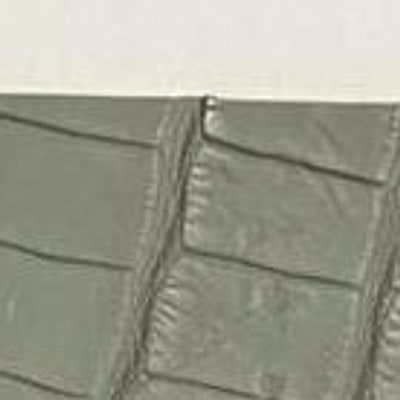
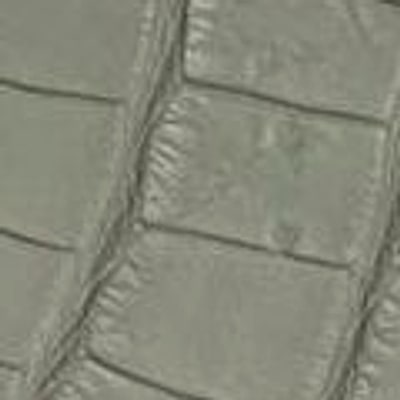
fix: re-crop 10 problem swatches — remove text labels and title artifacts
Root causes identified via pixel brightness probing:
- IMG_0908.PNG startY=700 lands in the OPACO title band → viola, prugna, notte
  Fixed: corrected startY=860, row-0 top=887
- 48d3777b.JPG startY=285 lands in sheet header area → nero, antra, grigio, moro
  Fixed: probed leather zone y=350-495, centered 120px crop within each column
- IMG_0906.PNG row-2 label starts at y=2165 → smeraldo, verdone, petrolio
  Fixed: crop height=155 stops at y=2155, safely below the paper boundary

diff --git a/scripts/fix-swatches.js b/scripts/fix-swatches.js
@@ -1,0 +1,145 @@
+/**
+ * fix-swatches.js
+ * Targeted re-crop for specific problem swatches ONLY.
+ * Does NOT touch any other images.
+ *
+ * Root causes fixed:
+ *   IMG_0908.PNG — startY=700 lands in the "OPACO" title band
+ *     → opaco-viola, opaco-prugna, opaco-notte
+ *   48d3777b.JPG — startY=285 lands in the sheet header / title area
+ *     → opaco-nero, opaco-antra, opaco-grigio, opaco-moro (white corner)
+ *   IMG_0906.PNG — row-2 labelPct insufficient; trim can't skip label text row
+ *     → lucido-smeraldo, lucido-verdone, lucido-petrolio
+ *
+ * Run: node scripts/fix-swatches.js
+ */
+
+const sharp = require('sharp');
+const path  = require('path');
+const fs    = require('fs');
+
+const SRC = path.join(__dirname, '../public/images/Amal_Leathers');
+const OUT = path.join(__dirname, '../public/images/leathers');
+
+// ---------------------------------------------------------------------------
+// Each entry: source file, output name, exact pixel region, trim threshold.
+// Regions are chosen to land squarely on leather texture, well clear of
+// title banners and label text.
+// ---------------------------------------------------------------------------
+
+// ── IMG_0908.PNG geometry ─────────────────────────────────────────────────
+// 1320×2868, cols=3 → colW=440, insetX=66, cellW=308
+// Real swatches start ~y=860 (title band occupies y≈700-840)
+// rowH_new = (2480-860)/3 ≈ 540, insetTop=27 → row0 top≈887
+const IMG0908 = 'IMG_0908.PNG';
+const W0908   = 308;  // colW - 2*insetX
+const TOP0908 = 887;  // row 0 top with corrected startY=860
+const H0908   = 210;  // stays well above label area
+
+// ── 48d3777b.JPG geometry ────────────────────────────────────────────────
+// 739×1600, cols=3 → colW≈246, insetX≈44, cellW≈158
+// Real swatches start ~y=440 (header occupies y≈0-420)
+// rowH_new = (1460-440)/4 = 255, insetTop=13 → row0 top≈453
+const JPG48  = '48d3777b-4db9-4383-b736-88a439a42ef5.JPG';
+// 48d3777b: colW=246.3, leather centers at x≈123, 369, 615
+// Use width=120 centered in leather patch to avoid inter-swatch gutter
+const W48     = 120;
+// Probe confirmed: leather at y≈340-510, paper/label starts y≈520
+const TOP48R0 = 350;  // row 0: safely in leather zone
+const H48R0   = 145;  // ends at y≈495, well before paper boundary at y≈520
+// Row 1: main script used top=594,h=138; moro just needs threshold bump
+const TOP48R1 = 600;
+const H48R1   = 130;
+
+// ── IMG_0906.PNG geometry ─────────────────────────────────────────────────
+// 1320×2868, cols=3 → colW=440, insetX=66, cellW=308
+// Row 2 base = 760 + 2×607 = 1974; label text appears at ~y=2290+
+// Crop strictly the upper leather zone of that row
+const IMG0906 = 'IMG_0906.PNG';
+const W0906   = 308;
+const TOP0906 = 2000;  // safely in leather zone for row 2
+const H0906   = 155;   // ends at y=2155 — probe confirmed paper starts at y=2165
+
+const FIXES = [
+  // ── IMG_0908.PNG row 0: "OPACO" title band in old crop ──────────────
+  { file: IMG0908, name: 'opaco-viola',  region: { left: 66,  top: TOP0908, width: W0908, height: H0908 }, threshold: 40 },
+  { file: IMG0908, name: 'opaco-prugna', region: { left: 506, top: TOP0908, width: W0908, height: H0908 }, threshold: 40 },
+  { file: IMG0908, name: 'opaco-notte',  region: { left: 946, top: TOP0908, width: W0908, height: H0908 }, threshold: 40 },
+
+  // ── 48d3777b.JPG row 0: probe confirmed leather at y=350-495 ─────────
+  // left = col_center - W48/2: 63, 309, 555
+  { file: JPG48, name: 'opaco-nero',   region: { left: 63,  top: TOP48R0, width: W48, height: H48R0 }, threshold: 40 },
+  { file: JPG48, name: 'opaco-antra',  region: { left: 309, top: TOP48R0, width: W48, height: H48R0 }, threshold: 40 },
+  { file: JPG48, name: 'opaco-grigio', region: { left: 555, top: TOP48R0, width: W48, height: H48R0 }, threshold: 40 },
+
+  // ── 48d3777b.JPG row 1 col 1: white corner, re-trim with threshold 40 ─
+  { file: JPG48, name: 'opaco-moro',   region: { left: 309, top: TOP48R1, width: W48, height: H48R1 }, threshold: 40 },
+
+  // ── IMG_0906.PNG row 2: label text at bottom, crop upper leather zone ─
+  { file: IMG0906, name: 'lucido-smeraldo', region: { left: 66,  top: TOP0906, width: W0906, height: H0906 }, threshold: 40 },
+  { file: IMG0906, name: 'lucido-verdone',  region: { left: 506, top: TOP0906, width: W0906, height: H0906 }, threshold: 40 },
+  { file: IMG0906, name: 'lucido-petrolio', region: { left: 946, top: TOP0906, width: W0906, height: H0906 }, threshold: 40 },
+];
+
+// ---------------------------------------------------------------------------
+
+async function fixSwatch({ file, name, region, threshold }) {
+  const inputPath = path.join(SRC, file);
+  const outputPath = path.join(OUT, `${name}.jpg`);
+
+  // Validate bounds
+  const meta = await sharp(inputPath).metadata();
+  const r = region;
+  if (r.left + r.width > meta.width || r.top + r.height > meta.height) {
+    console.error(`  ✗  ${name} — region out of bounds (${meta.width}×${meta.height}), skipping`);
+    return;
+  }
+
+  // Step 1: Extract
+  const extracted = await sharp(inputPath)
+    .extract({ left: Math.round(r.left), top: Math.round(r.top), width: Math.round(r.width), height: Math.round(r.height) })
+    .toBuffer();
+
+  // Step 2: Trim white paper
+  let trimmed, trimInfo;
+  try {
+    const result = await sharp(extracted)
+      .trim({ background: { r: 255, g: 255, b: 255, alpha: 1 }, threshold })
+      .toBuffer({ resolveWithObject: true });
+    trimmed  = result.data;
+    trimInfo = result.info;
+  } catch {
+    const result = await sharp(extracted).toBuffer({ resolveWithObject: true });
+    trimmed  = result.data;
+    trimInfo = result.info;
+  }
+
+  // Step 3: Centred square
+  const { width: tw, height: th } = trimInfo;
+  const size = Math.min(tw, th);
+  const squareLeft = Math.floor((tw - size) / 2);
+  const squareTop  = Math.floor((th - size) / 2);
+
+  // Step 4: Resize, enhance, save
+  await sharp(trimmed)
+    .extract({ left: squareLeft, top: squareTop, width: size, height: size })
+    .resize(400, 400)
+    .modulate({ brightness: 1.03, saturation: 1.08 })
+    .sharpen({ sigma: 0.8 })
+    .jpeg({ quality: 88, mozjpeg: true })
+    .toFile(outputPath);
+
+  console.log(`  ✓  ${name}.jpg`);
+}
+
+(async () => {
+  console.log(`Fixing ${FIXES.length} problem swatches…\n`);
+  for (const fix of FIXES) {
+    try {
+      await fixSwatch(fix);
+    } catch (err) {
+      console.error(`  ✗  ${fix.name}: ${err.message}`);
+    }
+  }
+  console.log('\n── Done ──');
+})();
